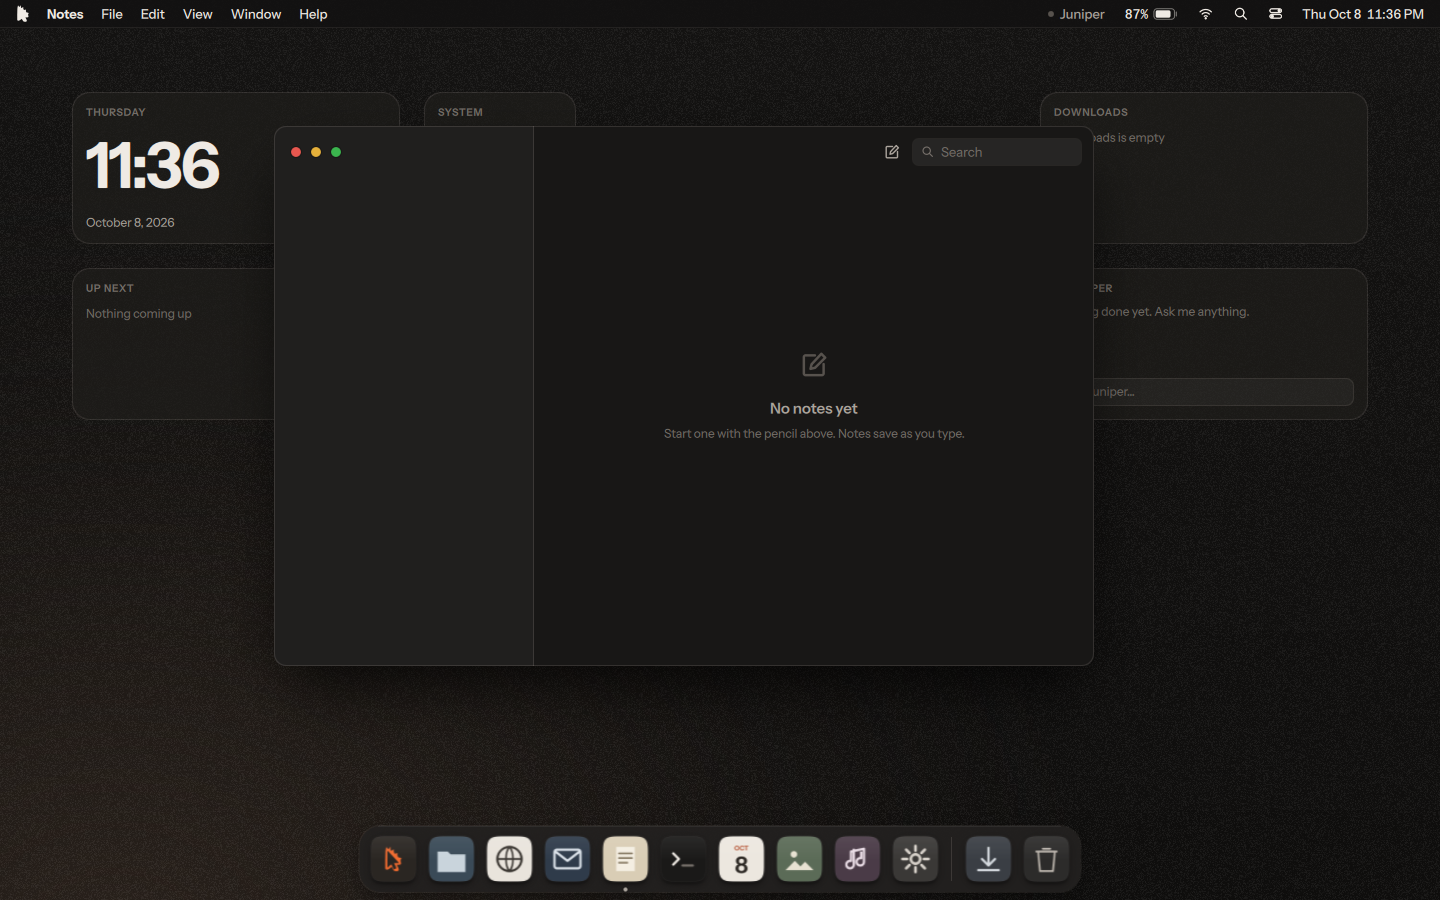
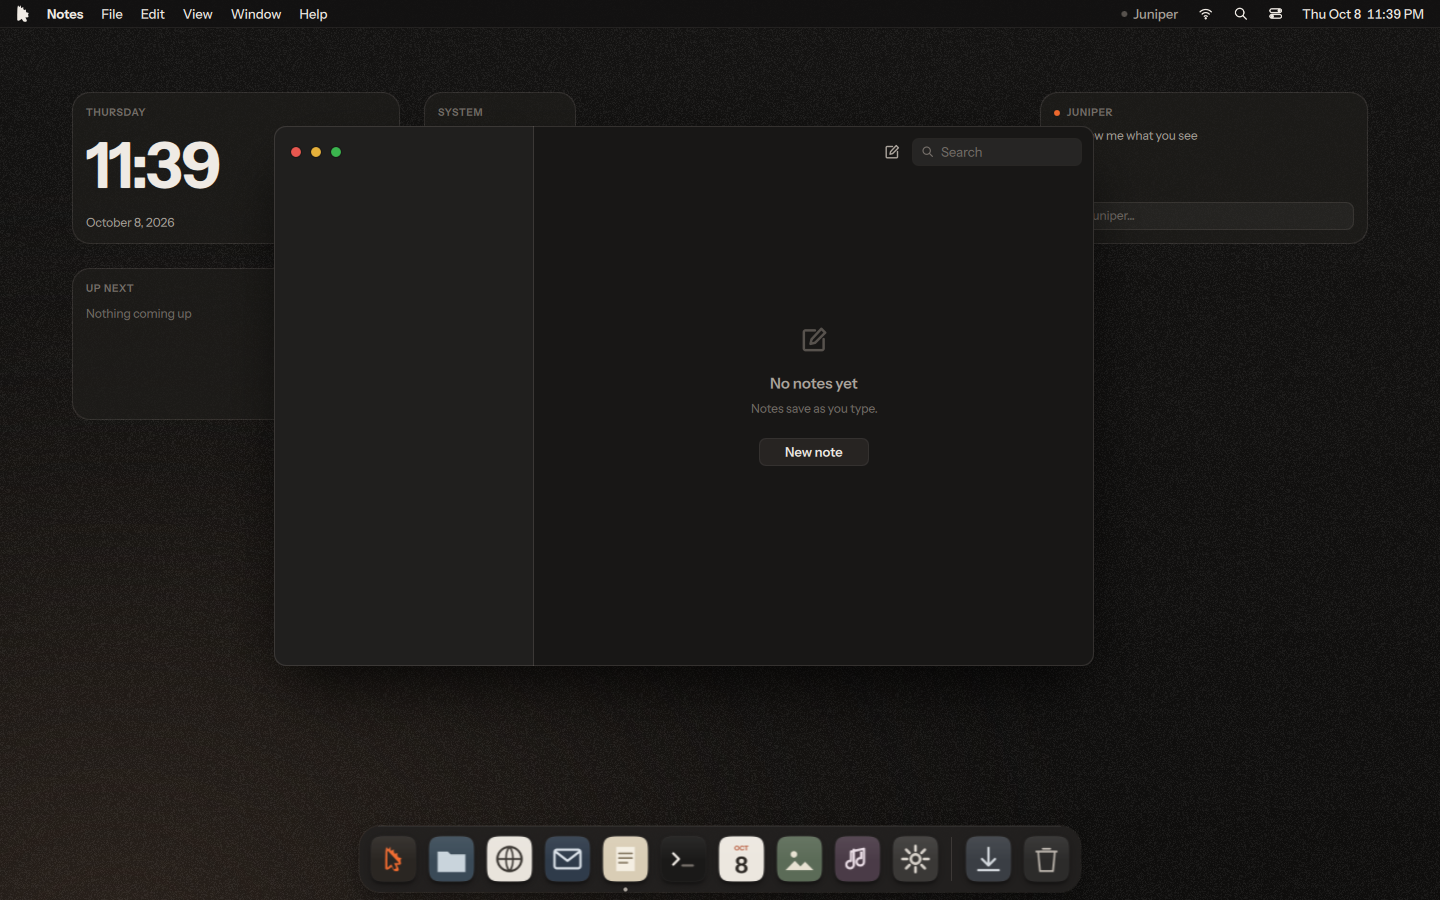
Clean home: no Downloads widget, assistant starter suggestions, empty-state actions
Claude-Session: https://claude.ai/code/session_01B11KmgS7KywUE1jfuntsyj

diff --git a/shell/apps/Photos.qml b/shell/apps/Photos.qml
@@ -2,6 +2,7 @@
 import QtQuick
 import QtCore
 import Qt.labs.folderlistmodel
+import QtQuick.Dialogs
 import "../components"
 
 Item {
@@ -22,7 +23,7 @@ Item {
     // a real install shows what's in ~/Pictures, newest first, as square crops
     FolderListModel {
         id: pics
-        folder: Os.demo ? "" : StandardPaths.writableLocation(StandardPaths.PicturesLocation)
+        folder: Os.demo ? "" : Os.settings.photosFolder || StandardPaths.writableLocation(StandardPaths.PicturesLocation)
         nameFilters: ["*.jpg", "*.jpeg", "*.png", "*.webp", "*.gif", "*.JPG", "*.JPEG", "*.PNG", "*.heic"]
         showDirs: false; sortField: FolderListModel.Time
     }
@@ -44,7 +45,9 @@ Item {
             MouseArea { anchors.fill: parent; onDoubleClicked: Qt.openUrlExternally(parent.fileUrl) }
         }
     }
-    EmptyState { visible: !Os.demo && pics.count === 0; glyph: "image"; title: "No photos yet"; hint: "Pictures you save to your Pictures folder show up here." }
+    EmptyState { visible: !Os.demo && pics.count === 0; glyph: "image"; title: "No photos yet"; hint: "Pictures in your Pictures folder show up here."
+                 action: "Choose a folder…"; onActed: chooser.open() }
+    FolderDialog { id: chooser; title: "Show photos from"; currentFolder: pics.folder; onAccepted: Os.settings.photosFolder = String(selectedFolder) }
     Flickable {
         id: fl
         x: 14; y: 52; width: parent.width - 28; height: parent.height - y

diff --git a/shell/components/HomeWidget.qml b/shell/components/HomeWidget.qml
@@ -263,7 +263,20 @@ Item {
                 Rectangle { width: 6; height: 6; radius: 3; color: Theme.ember; anchors.verticalCenter: parent.verticalCenter }
                 Label { text: Os.name }
             }
-            Empty { visible: !Os.demo && !Os.activity.count; y: 22; text: "Nothing done yet. Ask me anything." }
+            // before the first task: what it can already do here, one tap each
+            Column {
+                visible: !Os.demo && !Os.activity.count
+                y: 22; spacing: 5; width: parent.width
+                Repeater {
+                    model: Os.suggestions
+                    Row { required property var modelData; spacing: 7
+                        property string aiName: modelData.text; property string aiRole: "button"
+                        function aiActivate() { Os.submit(modelData.text); }
+                        Glyph { name: modelData.icon; width: 12; height: 12; color: Theme.text3; anchors.verticalCenter: parent.verticalCenter }
+                        Line { text: modelData.text; font.weight: Font.Normal; color: Theme.text2; font.pixelSize: 12 }
+                        TapHandler { enabled: !hw.preview && !Os.editingHome; onTapped: parent.aiActivate() } }
+                }
+            }
             Column {
                 y: 22; spacing: 5; width: parent.width
                 Repeater {

diff --git a/shell/components/Os.qml b/shell/components/Os.qml
@@ -46,6 +46,7 @@ QtObject {
         property string accent: ""             // the user's color; empty = neutral. Never ember.
         property string myLooks: "[]"           // saved Looks, JSON
         property string notes: "[]"            // your notes, JSON [{body, at}]
+        property string photosFolder: ""       // Photos shows this folder; empty = ~/Pictures
         property bool packsAsked: false        // first boot showed "What do you do?"
         property bool browserAsked: false      // first boot showed "Pick your browser"
     }
@@ -159,8 +160,7 @@ QtObject {
         { uid: 2, kind: "system", size: "S", x: 424, y: 64 },
         { uid: 3, kind: "upnext", size: "M", x: 72, y: 240 },
         { uid: 4, kind: "notes", size: "S", x: 424, y: 240 },
-        { uid: 5, kind: "folder", size: "M", x: -400, y: 64 },
-        { uid: 6, kind: "assistant", size: "M", x: -400, y: 240 } ]
+        { uid: 6, kind: "assistant", size: "M", x: -400, y: 64 } ]
     readonly property var demoHome: [
         { uid: 1, kind: "clock", size: "M", x: 72, y: 64 },
         { uid: 2, kind: "weather", size: "S", x: 424, y: 64 },

diff --git a/shell/components/EmptyState.qml b/shell/components/EmptyState.qml
@@ -5,10 +5,14 @@ Column {
     property string glyph: "doc"
     property string title
     property string hint
+    property string action: ""            // one button under the hint, when there is something to do
+    signal acted()
     anchors.centerIn: parent
     spacing: 8
     Glyph { anchors.horizontalCenter: parent.horizontalCenter; name: parent.glyph; width: 28; height: 28; color: Theme.text4 }
     Item { width: 1; height: 4 }
     Text { anchors.horizontalCenter: parent.horizontalCenter; text: parent.title; color: Theme.text2; font.family: Theme.font; font.pixelSize: 15; font.weight: Font.DemiBold }
     Text { anchors.horizontalCenter: parent.horizontalCenter; visible: !!text; text: parent.hint; color: Theme.text3; font.family: Theme.font; font.pixelSize: 12; horizontalAlignment: Text.AlignHCenter }
+    Item { visible: !!parent.action; width: 1; height: 6 }
+    FButton { visible: !!parent.action; anchors.horizontalCenter: parent.horizontalCenter; text: parent.action; height: 28; width: Math.max(110, implicitWidth); onClicked: parent.acted() }
 }

diff --git a/shell/apps/Notes.qml b/shell/apps/Notes.qml
@@ -117,6 +117,6 @@ Item {
             }
         }
         Scroller { flick: fl }
-        EmptyState { visible: !app.cur; glyph: "compose"; title: "No notes yet"; hint: "Start one with the pencil above. Notes save as you type." }
+        EmptyState { visible: !app.cur; glyph: "compose"; title: "No notes yet"; hint: "Notes save as you type."; action: "New note"; onActed: app.newNote() }
     }
 }
